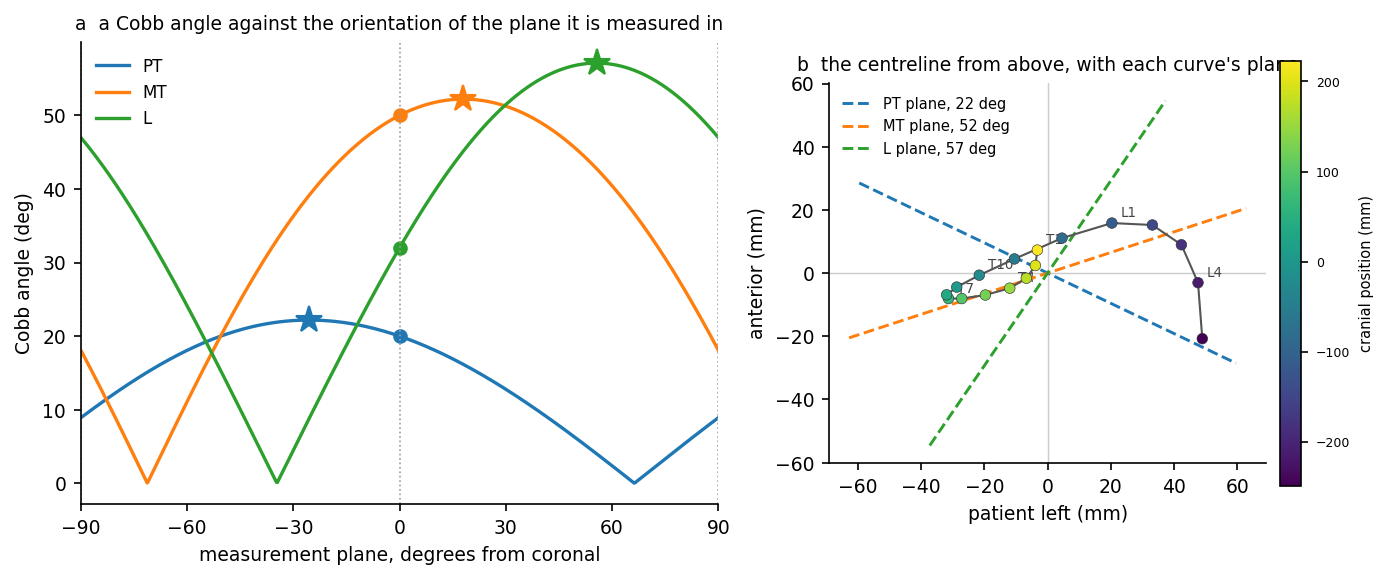
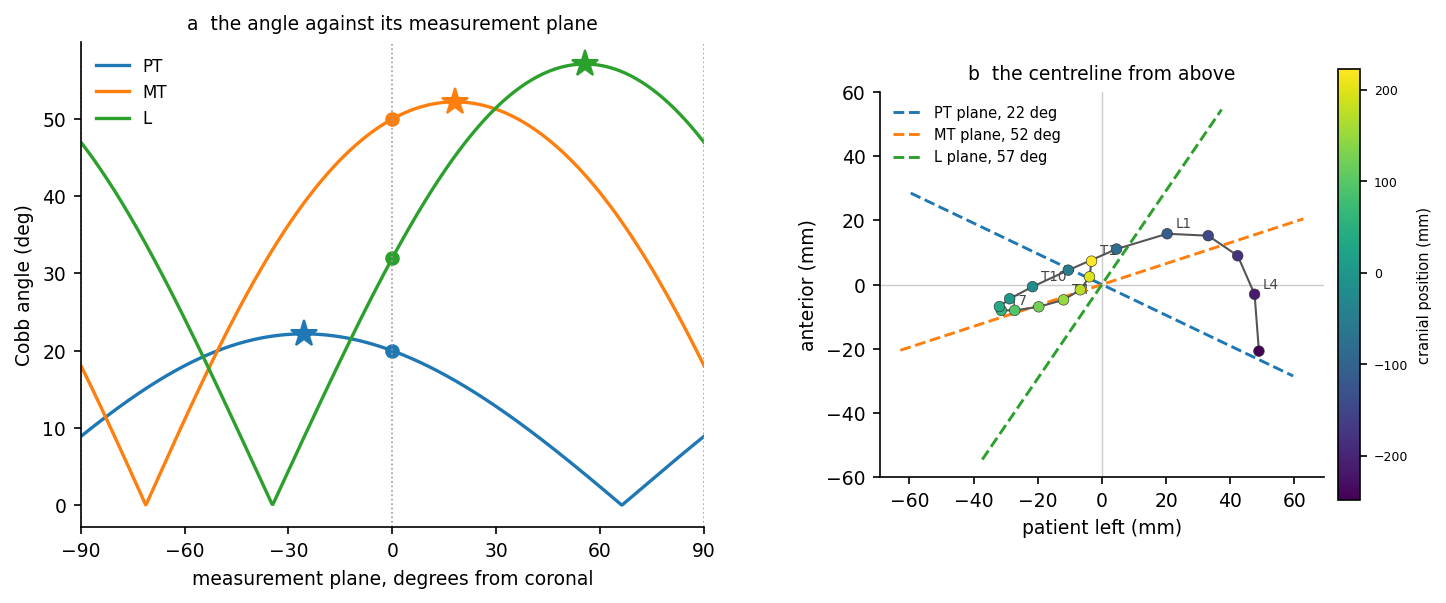
Fix figure 4: duplicated panel letter, clipped title, squashed panel

diff --git a/tools/make_figures.py b/tools/make_figures.py
@@ -68,16 +68,13 @@ def figure_planes(out: Path) -> None:
     curves = cobb.cobb_angles(model.project(PA)).curves
     three_d = cobb3d.cobb3d_for_curves(model, curves)
 
-    fig, axes = plt.subplots(1, 2, figsize=(10.5, 4.0), width_ratios=[1.35, 1.0])
+    fig, axes = plt.subplots(1, 2, figsize=(11.0, 4.2), width_ratios=[1.3, 1.0])
     viz.plot_pmc_profile(model, three_d, axes[0])
-    axes[0].set_title(
-        "a  a Cobb angle against the orientation of the plane it is measured in",
-        fontsize=9,
-    )
+    axes[0].set_title("a  the angle against its measurement plane", fontsize=9)
     viz.plot_axial_path(
-        model, axes[1], measurements=three_d,
-        title="b  the centreline from above, with each curve's plane",
+        model, axes[1], measurements=three_d, title="b  the centreline from above",
     )
+    fig.subplots_adjust(wspace=0.32)
     _save(fig, out / "fig4_planes.png")
 
 
